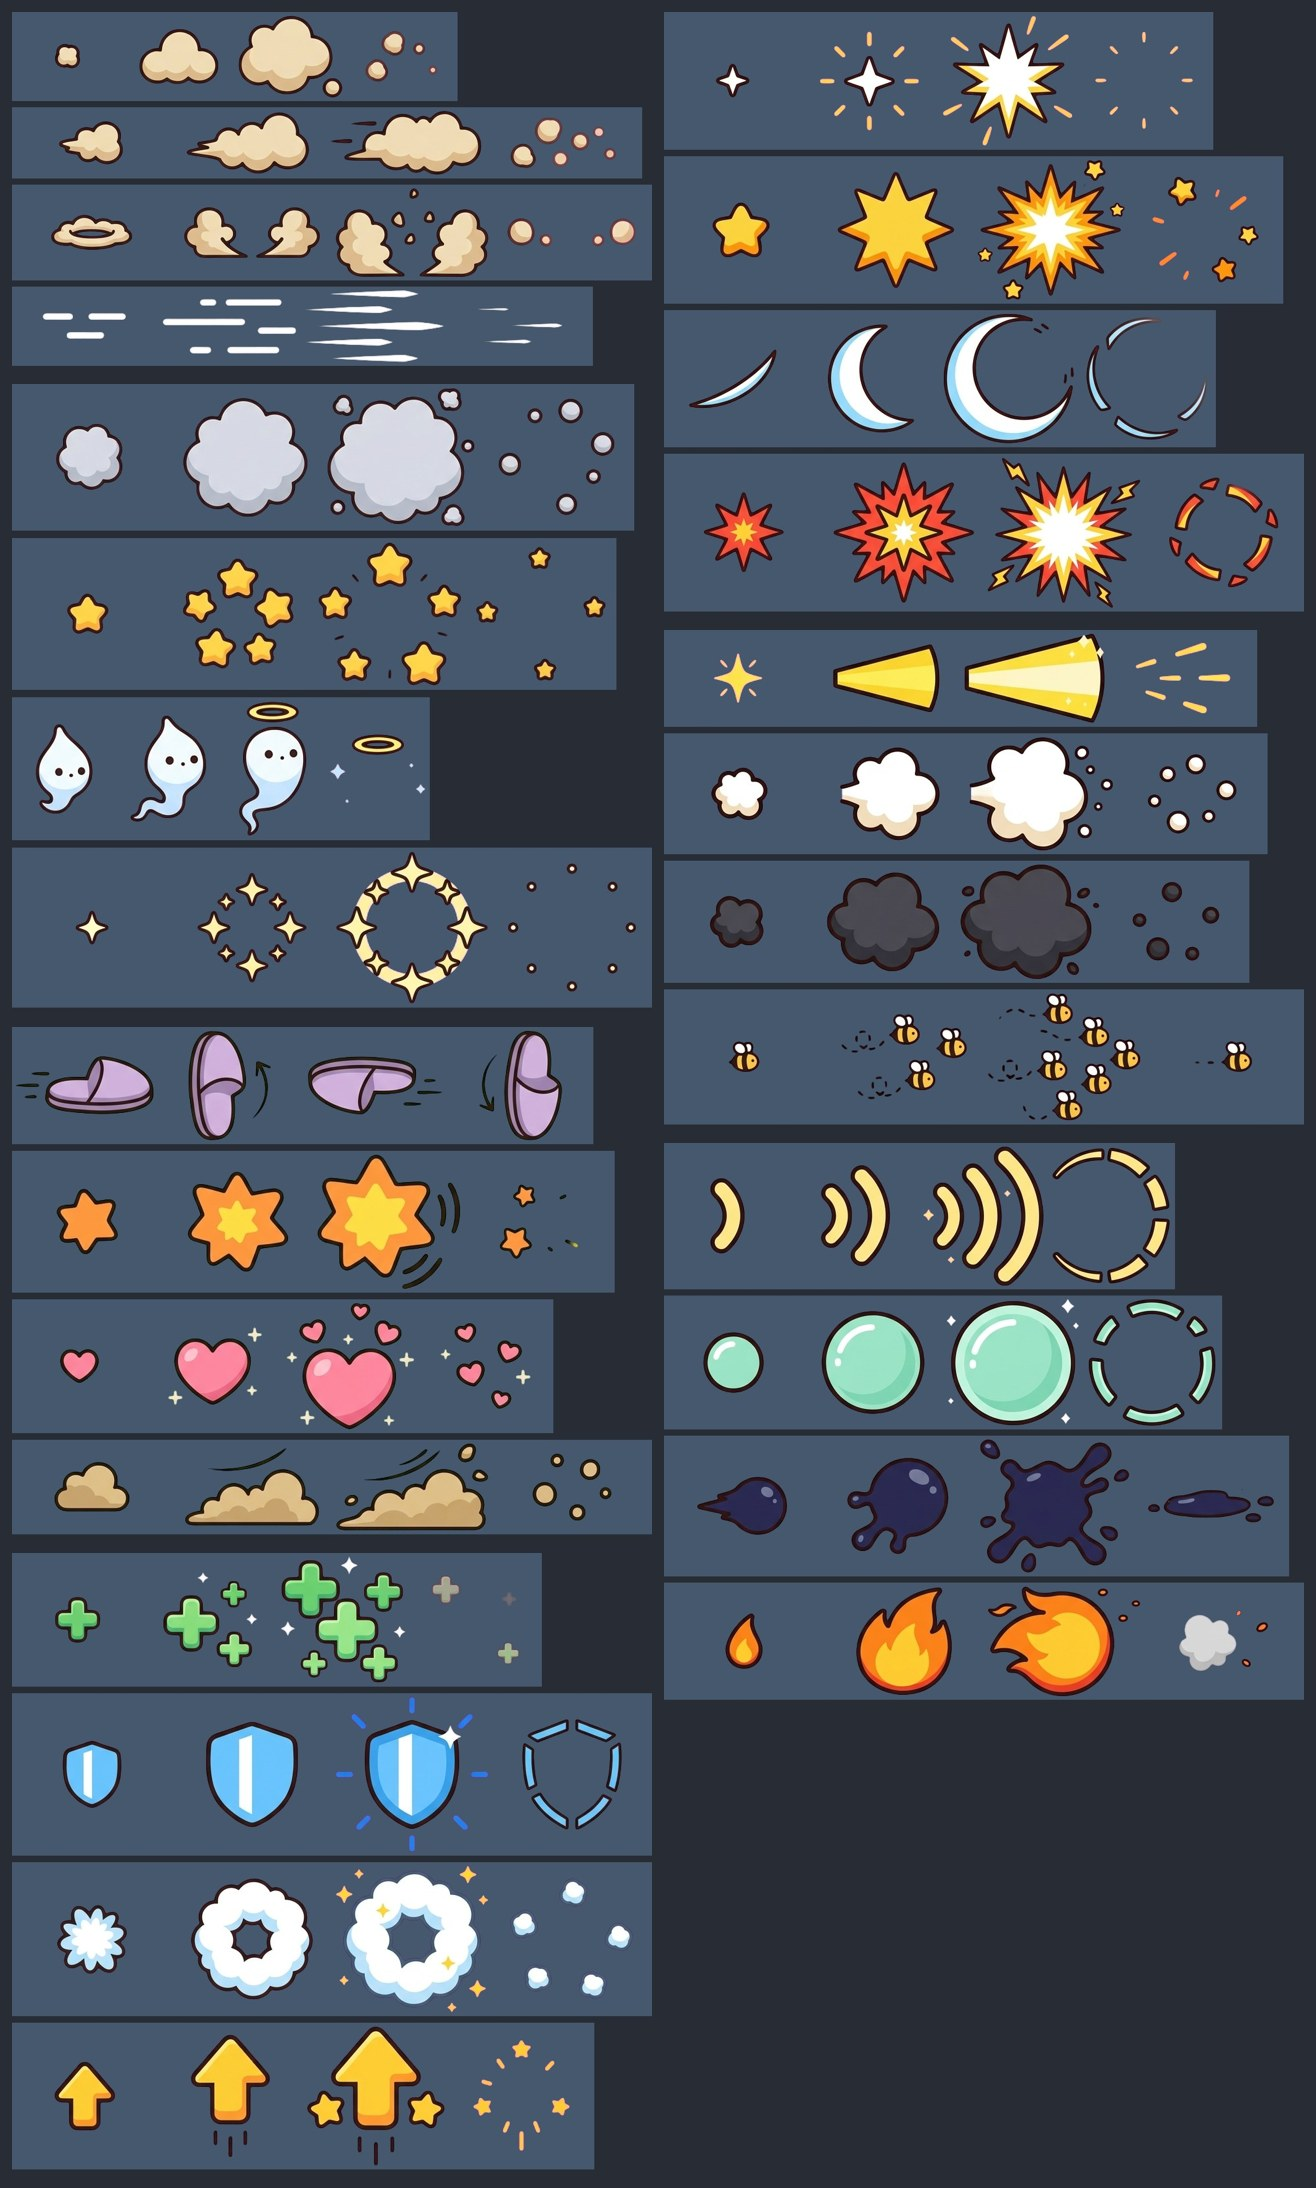
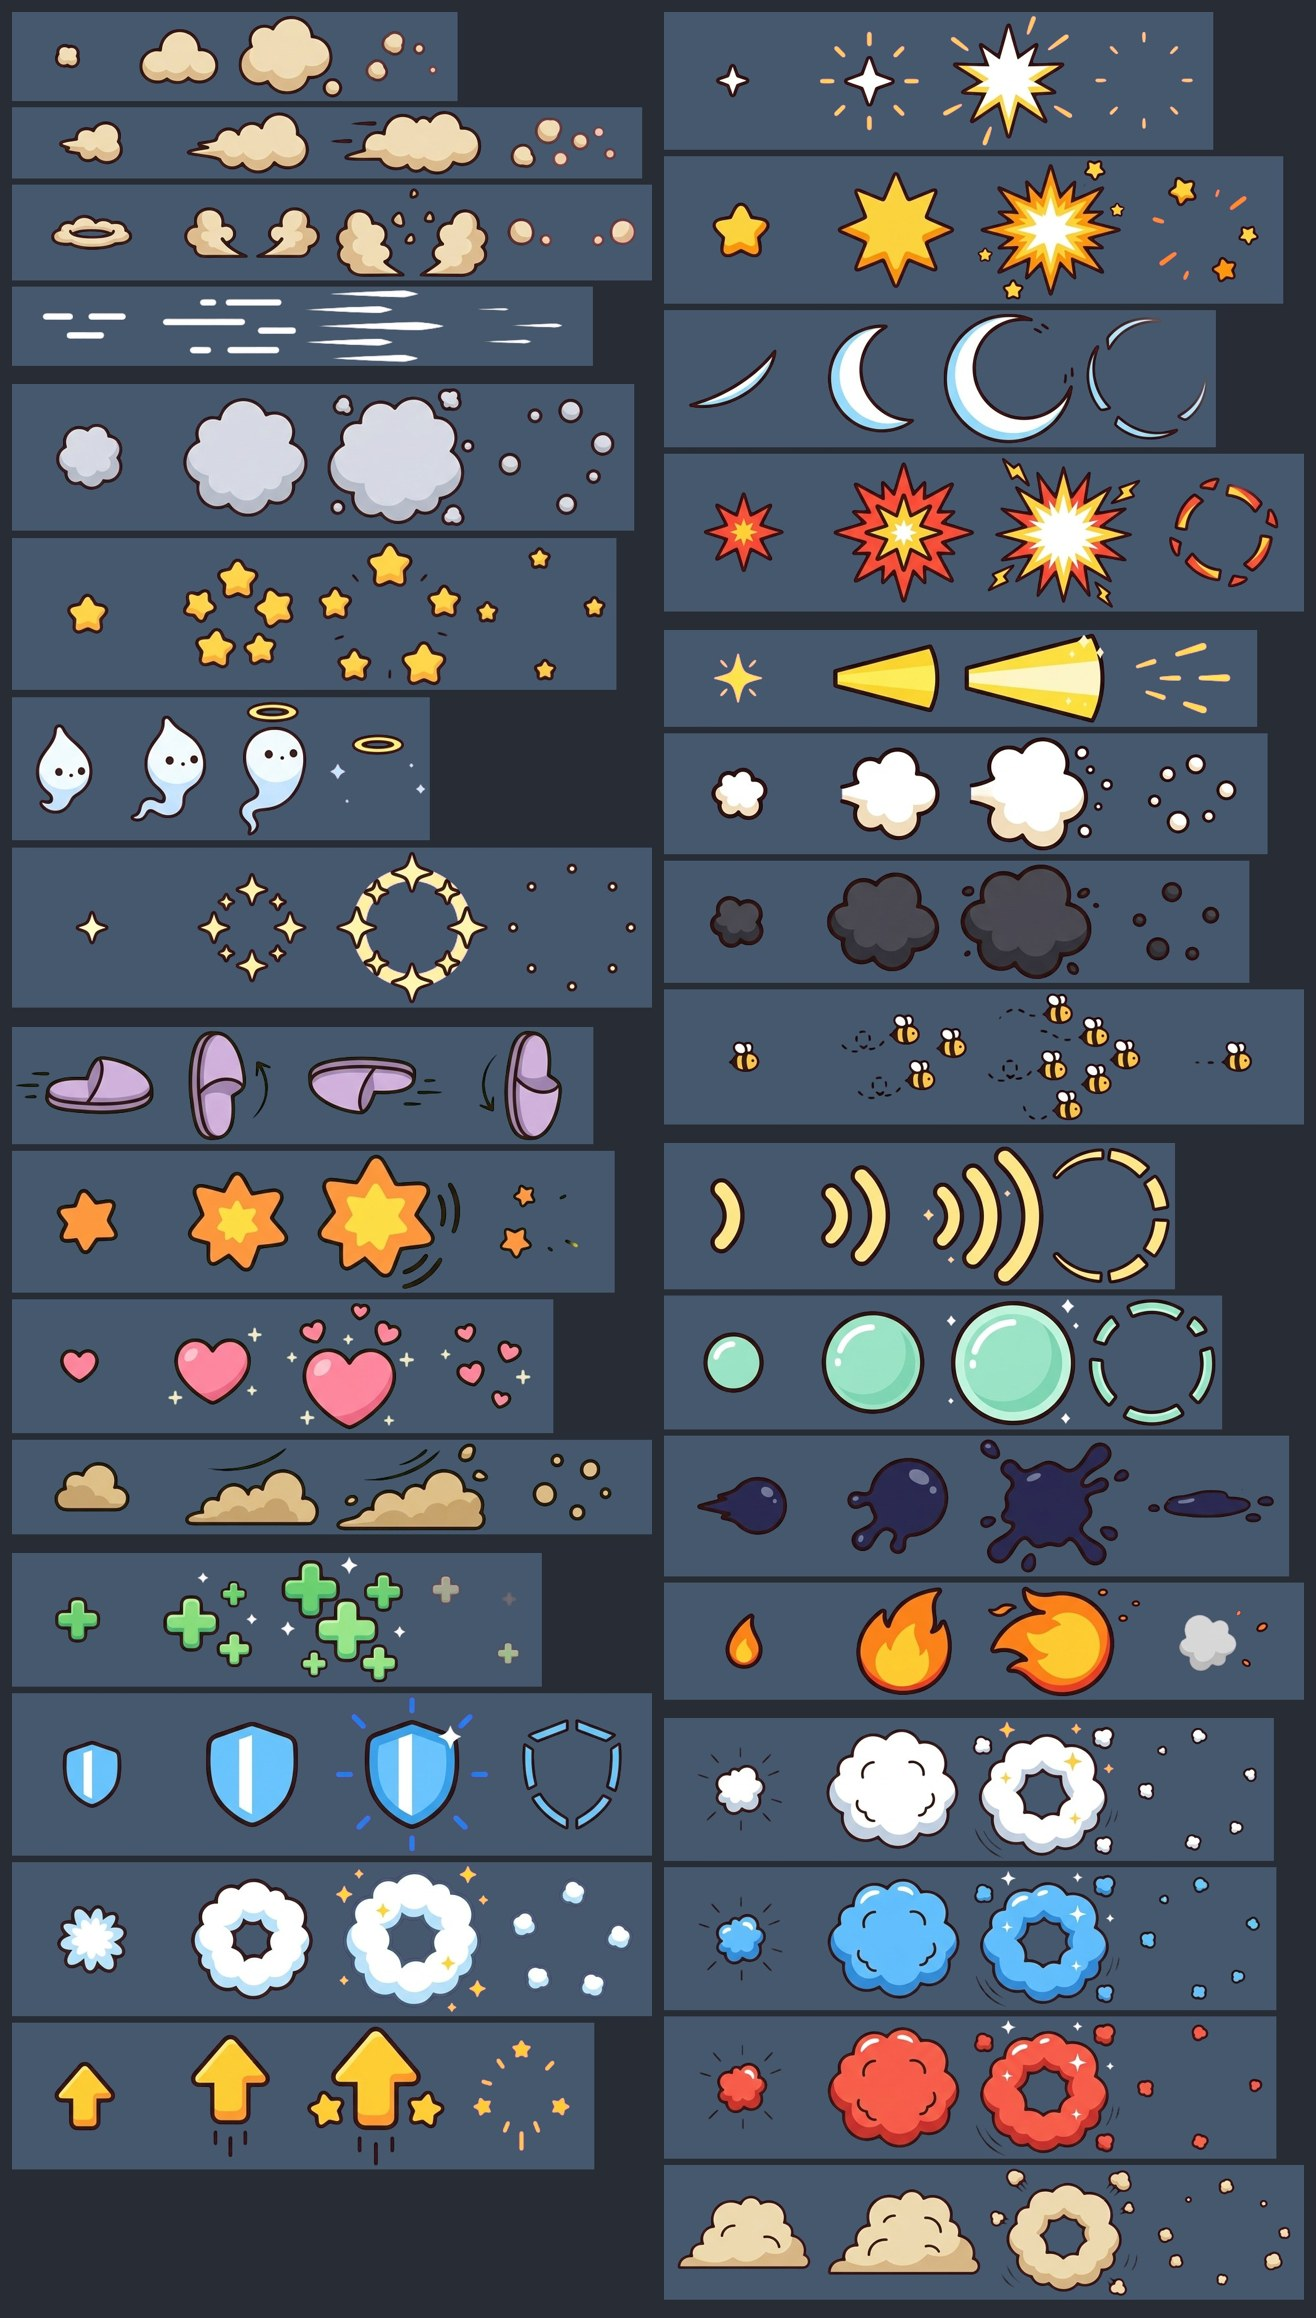
Add spawn POOF effects (white, blue team, red team, ground dust)
Claude-Session: https://claude.ai/code/session_01EhkagRdaEkRKXUjDzP8ARK

diff --git a/HANDOFF.md b/HANDOFF.md
@@ -22,9 +22,10 @@ This repo (`zqh7y/Game_Assets2`, branch `main`) holds the art. Push finished wor
   GIFs for walk / run / attack in both directions, and `<Name>_preview.gif`.
   Timing used in the GIFs: walk 140 ms per frame, run 90 ms, attack 150 ms with the
   last frame held 450 ms.
-- `effects/<group>/` - 28 effects without characters. Per effect: `<name>_sheet.png`
+- `effects/<group>/` - 32 effects without characters. Per effect: `<name>_sheet.png`
   (4-frame strip: appear, grow, peak, fade), `<name>_1.png` to `<name>_4.png`,
-  `<name>.gif`. Groups: `movement`, `hit`, `defeat`, `attacks`, `support`.
+  `<name>.gif`. Groups: `movement`, `hit`, `defeat`, `attacks`, `support`, `spawn`
+  (POOF bursts for when a brawler appears: white, blue team, red team, ground dust).
   Frames are centered in their cell, so travel (slipper flying, soul rising) is done
   by moving the sprite in code. Effects that point somewhere point right.
 - `maps/` - `castle_island_map.png` (4096x4096, the scrolling battle map) and

diff --git a/README.md b/README.md
@@ -51,6 +51,7 @@ Every brawler has walk, run and attack rows. Nana only holds her slipper in the 
 | `defeat/` | `smoke_poof`, `star_pop`, `soul_wisp`, `sparkle_ring` |
 | `attacks/` | `beam_light`, `dough_flour`, `soot_cloud`, `honey_bees`, `nana_slipper`, `capy_bonk`, `axo_heart`, `pango_dust`, `bill_shockwave`, `tardi_bubble`, `octo_ink`, `dragon_fire` |
 | `support/` | `heal_sparkles`, `shield_up`, `spawn_poof`, `level_up` |
+| `spawn/` | `spawn_poof_white`, `spawn_poof_blue` (blue team), `spawn_poof_red` (red team), `spawn_poof_dust` (unit lands on the ground) |
 
 Each frame is centered in its cell, so travel (a slipper flying, a soul floating up, a beam moving right) is done by moving the sprite in the game. Effects that point somewhere point right; mirror them for left.
 
